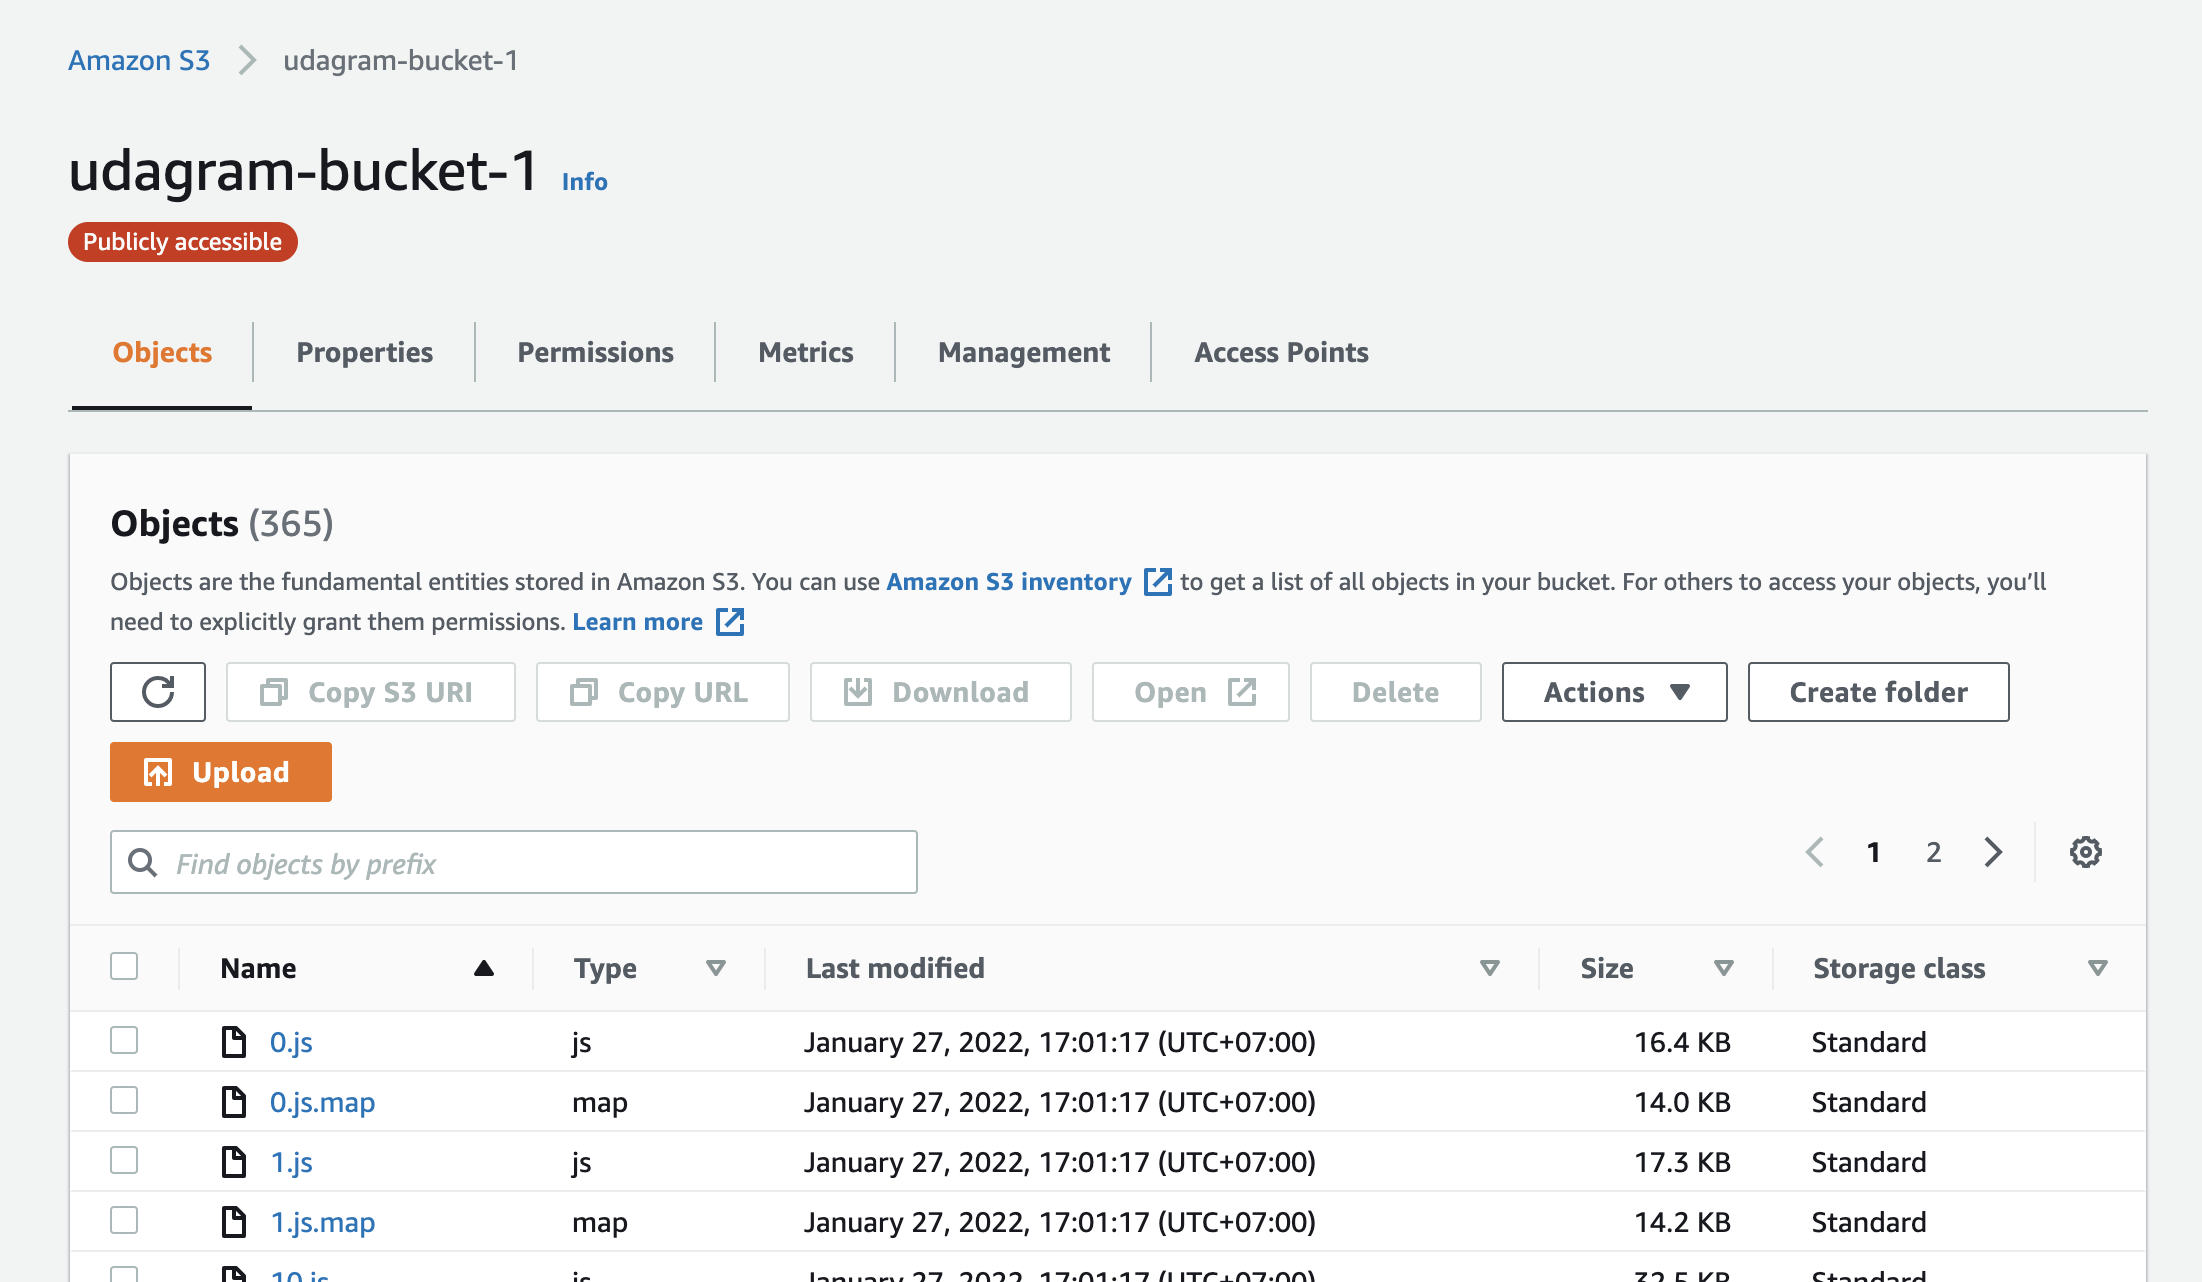
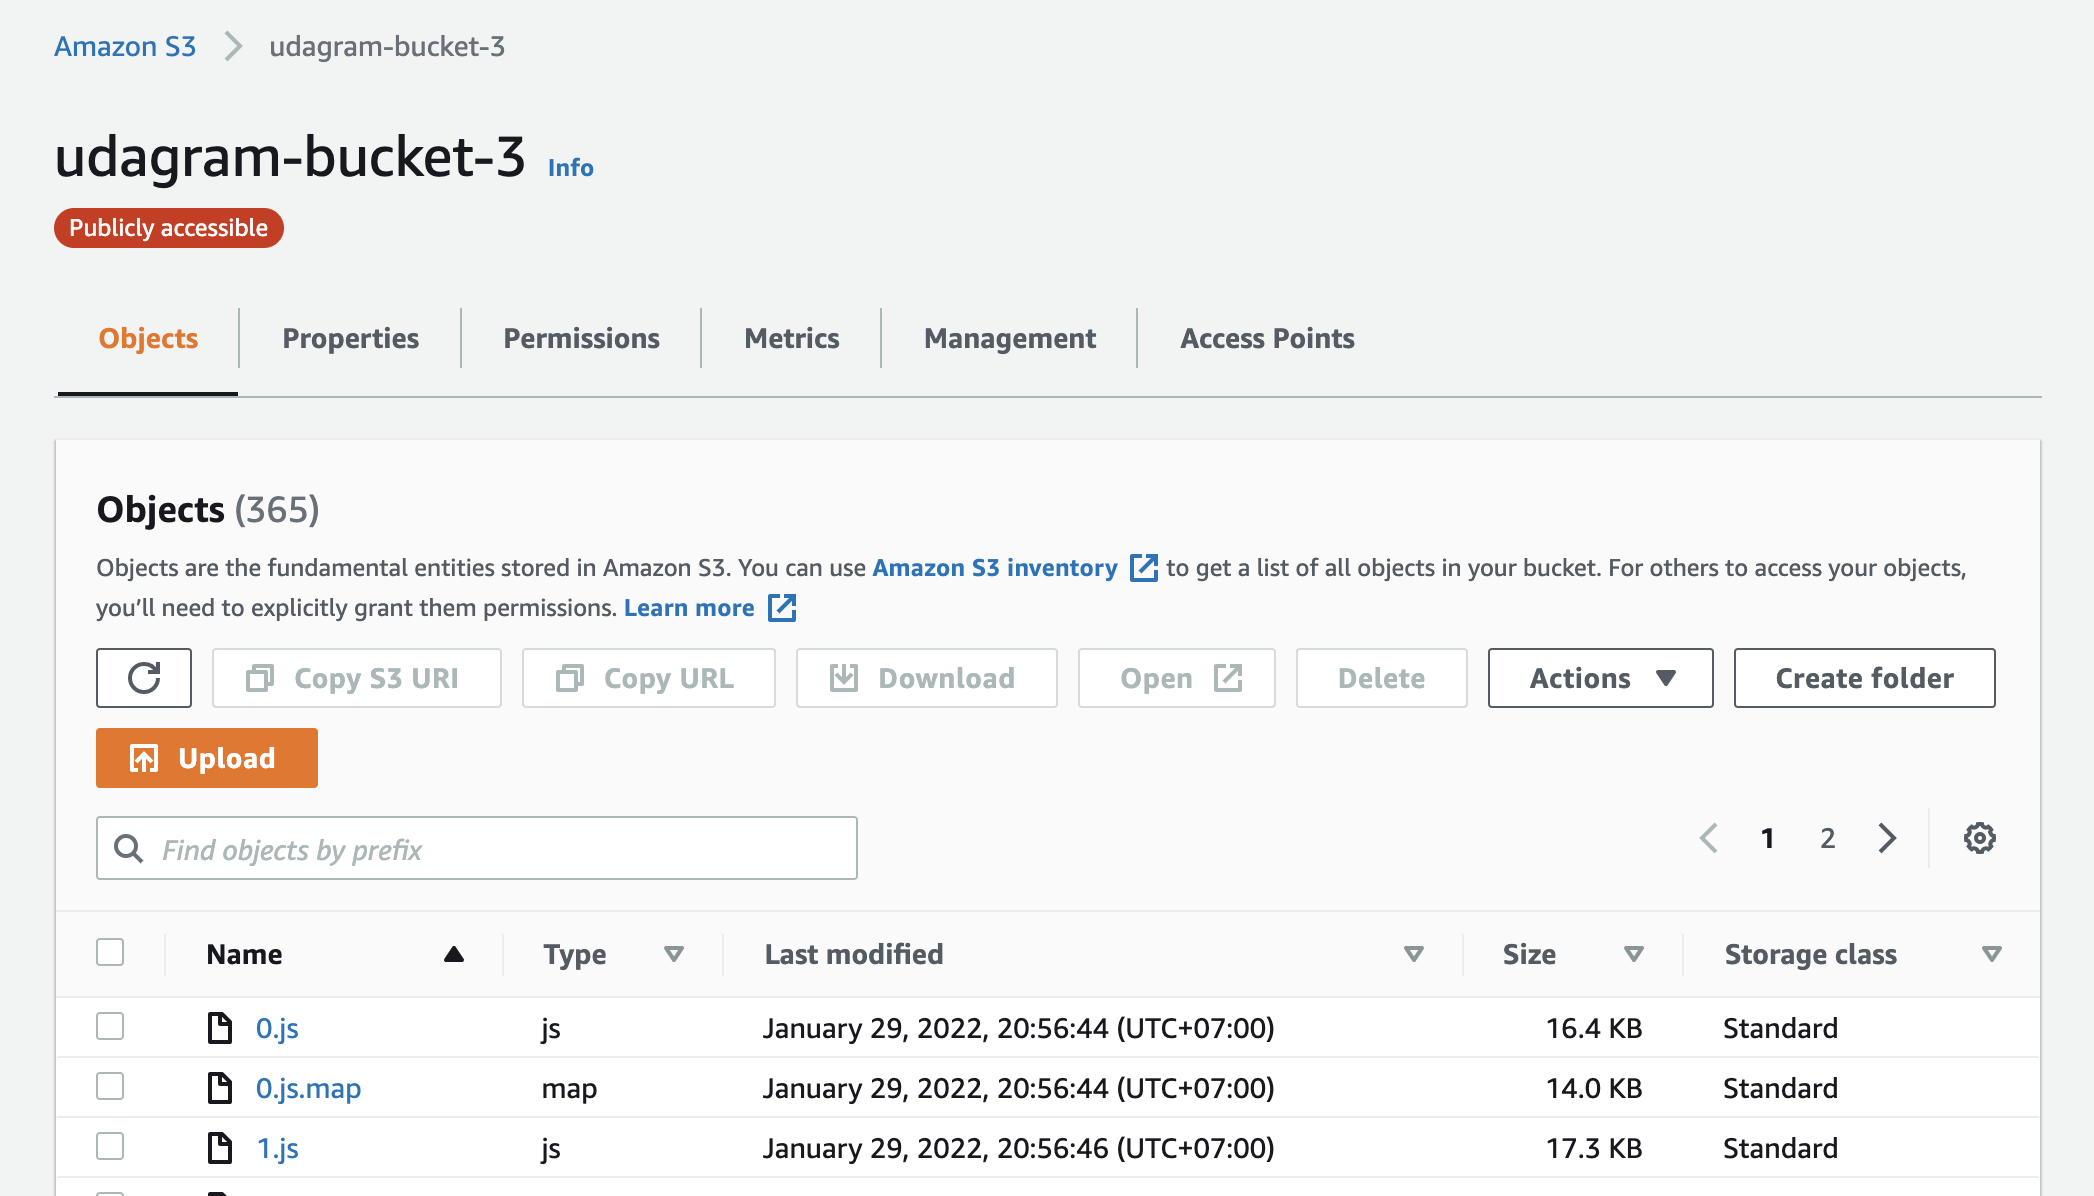
chore: update photo & api endpoint

diff --git a/udagram/udagram-frontend/src/environments/environment.prod.ts b/udagram/udagram-frontend/src/environments/environment.prod.ts
@@ -6,7 +6,7 @@ export const environment = {
   production: true,
   appName: "Udagram",
   apiHost:
-    "http://Udagramserver1-env.eba-htnsecun.us-east-1.elasticbeanstalk.com/api/v0",
+    "http://Udagramserver3-env.eba-eagnecgh.us-east-1.elasticbeanstalk.com/api/v0",
 };
 
 /*

diff --git a/udagram/udagram-frontend/src/environments/environment.ts b/udagram/udagram-frontend/src/environments/environment.ts
@@ -6,7 +6,7 @@ export const environment = {
   production: true,
   appName: "Udagram",
   apiHost:
-    "http://Udagramserver1-env.eba-htnsecun.us-east-1.elasticbeanstalk.com/api/v0",
+    "http://Udagramserver3-env.eba-eagnecgh.us-east-1.elasticbeanstalk.com/api/v0",
 };
 
 /*
